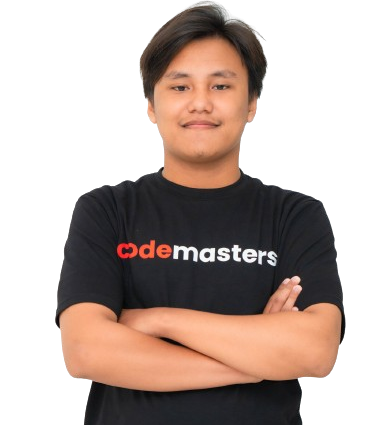
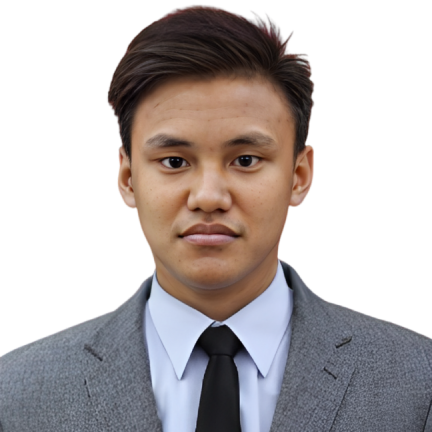
update hero + project

diff --git a/index.html b/index.html
@@ -7,11 +7,13 @@
     <title>Portfolio</title>
     <link rel="stylesheet" href="./asset/styles/style.css">
     <link rel="stylesheet" href="./asset/styles/responsive.css">
+    <link rel="stylesheet" href="./hero-style.css">
     <link rel="stylesheet" href="https://cdn.jsdelivr.net/npm/@glidejs/glide/dist/css/glide.core.min.css" />
 </head>
 <body>
     <!-- Header -->
     <header>
+        <div class="wave"></div>
         <div class="main-container">
             <div class="nav">
                 <div class="logo">
@@ -21,13 +23,8 @@
                     <ul>
                         <li><a href="#services">Services</a></li>
                         <li><a href="#portfolio">Portfolio</a></li>
-                        <li><a href="#experience">experience</a></li>
+                        <li><a href="#experience">Experience</a></li>
                         <li><a href="#contact">Contact</a></li>
-                        <li>
-                            <a href="/resume.pdf" target="_blank">
-                                <button class="btn">Resume</button>
-                            </a>
-                        </li>
                     </ul>
                 </nav>
                 <div class="burger">
@@ -38,7 +35,7 @@
             </div>
             <section id="hero">
                 <div class="hero-right">
-                    <img src="./asset/image/profile.png" alt="person-standing">
+                    <img src="./asset/image/profile2.png" alt="person-standing">
                 </div>
                 <div class="hero-left">
                     <h3 class="pre-title">My Name Is</h3>
@@ -461,12 +458,14 @@
         var glide = new Glide('.glide', {
             type: 'carousel',
             startAt: 0,
-            perView: 3, // Menentukan jumlah item yang terlihat pada satu waktu
-            focusAt: 'center', // Fokus pada item tengah
-            gap: 20, // Menentukan jarak antara item
+            perView: 3, 
+            focusAt: 'center', 
+            gap: 20, 
+            autoplay: 3000, 
+            hoverpause: true,
             breakpoints: {
                 800: {
-                    perView: 1, // Jika lebar layar di bawah 800px, hanya satu item yang terlihat
+                    perView: 1,
                 },
             },
         });

diff --git a/test.html b/test.html
@@ -1,0 +1,54 @@
+<!DOCTYPE html>
+<html lang="en">
+<head>
+    <meta charset="UTF-8">
+    <meta name="viewport" content="width=device-width, initial-scale=1.0">
+    <title>Document</title>
+    <link rel="stylesheet" href="./asset/styles/style.css">
+    <link rel="stylesheet" href="./asset/styles/responsive.css">
+    <link rel="stylesheet" href="./hero-style.css">
+</head>
+<body>
+    <!-- Header -->
+    <header>
+        <div class="wave"></div>
+        <div class="main-container">
+            <div class="nav">
+                <div class="logo">
+                    <a href="/">AZ</a>
+                </div>
+                <nav>
+                    <ul>
+                        <li><a href="#services">Services</a></li>
+                        <li><a href="#portfolio">Portfolio</a></li>
+                        <li><a href="#experience">experience</a></li>
+                        <li><a href="#contact">Contact</a></li>
+                        <li>
+                            <a href="/resume.pdf" target="_blank">
+                                <button class="btn">Resume</button>
+                            </a>
+                        </li>
+                    </ul>
+                </nav>
+                <div class="burger">
+                    <div class="line-1"></div>
+                    <div class="line-2"></div>
+                    <div class="line-3"></div>
+                </div>
+            </div>
+            <section id="hero">
+                <div class="hero-right">
+                    <img src="./asset/image/profile.png" alt="person-standing">
+                </div>
+                <div class="hero-left">
+                    <h3 class="pre-title">My Name Is</h3>
+                    <h1 class="hero-name">Abdul <span>Aziz Rahmawan</span></h1>
+                    <p>Lorem ipsum dolor sit amet consectetur adipisicing elit. Reiciendis neque nulla cumque quas fugit, ea ipsum dolor quasi nostrum quisquam voluptas iste! Natus exercitationem hic quidem accusamus reprehenderit eum quasi?</p>
+                </div>
+            </section>
+        </div>
+    </header>
+    <!-- End of Header -->
+</body>
+<script src="./asset/script/main.js"></script>
+</html>

diff --git a/hero-style.css b/hero-style.css
@@ -1,0 +1,40 @@
+/* Wave styling */
+.wave {
+  content: "";
+  height: 300px;
+  width: 100%;
+  background: url(https://raw.githack.com/SochavaAG/example-mycode/master/pens/animation-wave-shadow/images/wave.svg) repeat-x scroll 0 0;
+  background-color: #00a2ff;
+  -webkit-background-size: 1600px 300px;
+  -moz-background-size: 1600px 300px;
+  -o-background-size: 1600px 300px;
+   background-size: 1600px 300px;
+  position: absolute;
+  -webkit-animation: an-wave 20s linear infinite;
+  -moz-animation: an-wave 20s linear infinite;
+  -o-animation: an-wave 20s linear infinite;
+  animation: an-wave 20s linear infinite;
+  pointer-events: auto;
+  z-index: -1;
+}
+
+@-webkit-keyframes an-wave {
+  100% {
+    background-position-x: -1600px;
+  }
+}
+@-moz-keyframes an-wave {
+  100% {
+    background-position-x: -1600px;
+  }
+}
+@-o-keyframes an-wave {
+  100% {
+    background-position-x: -1600px;
+  }
+}
+@keyframes an-wave {
+  100% {
+    background-position-x: -1600px;
+  }
+}

diff --git a/asset/styles/style.css b/asset/styles/style.css
@@ -99,7 +99,7 @@ a {
 }
 
 .pre-title::before {
-    margin-right: 3px; /* Adjust this value to control the space between text and line */
+    margin-right: 3px; 
     left: 0;
 }
 
@@ -119,13 +119,25 @@ a {
 .nav {
     display: flex;
     justify-content: space-between;
-    padding: 2rem 0;
+    padding: 2rem;
+}
+
+.logo,
+nav {
+    margin-top: auto;
+    margin-bottom: auto;
+}
+
+.logo a:hover, nav a:hover{
+    color: var(--primaryIconColorHover);
 }
 
 .nav ul {
     list-style: none;
     display: flex;
     gap: 3rem;
+    font-weight: bold;
+    align-items: center;
 }
 
 .logo {
@@ -185,16 +197,18 @@ nav ul li a {
 }
 
 .hero-right img {
-    background: rgb(180, 180, 180);
+    background: rgb(250, 250, 250);
     border-radius: 50%;
     overflow: hidden;
     width: 75%;
+    box-shadow: 0 0 20px rgba(0, 0, 0, 0.2);
 }
 
 .hero-right {
     display: flex;
     justify-content: center;
 }
+
 
 /* Services Section */
 #services {

diff --git a/asset/styles/responsive.css b/asset/styles/responsive.css
@@ -19,7 +19,7 @@
 
     .skills-grid {
         gap: 1rem;
-    }
+    } 
 }
 
 @media screen and (max-width: 825px) {
@@ -39,12 +39,13 @@
     
     .toggle-burger .line-3 {
         transform: rotate(45deg) translate(-5px, -7px);
-    }
+    }    
+
 
     /* Navigation */
     nav {
         position: fixed;
-        width: 50%;
+        width: 100%;
         right: 0;
         top: 0;
         height: 100vh;
@@ -137,6 +138,7 @@
     footer {
         padding: 2rem 0;
     }
+
 }
 
 
@@ -149,4 +151,5 @@
     .pre-title {
         font-size: 0.7rem;
     }
+
 }

diff --git a/asset/script/main.js b/asset/script/main.js
@@ -2,11 +2,14 @@
 const navSlide = () => {
     const burger = document.querySelector(".burger");
     const navLists = document.querySelector("nav");
+    const wave = document.querySelector(".wave");
 
     burger.addEventListener("click", () => {
-        navLists.classList.toggle("nav-active");
-        burger.classList.toggle("toggle-burger")
-    })
+        if (wave && !wave.classList.contains("nav-active")) {
+            navLists.classList.toggle("nav-active");
+            burger.classList.toggle("toggle-burger");
+        }
+    });
 }
 
 navSlide();
